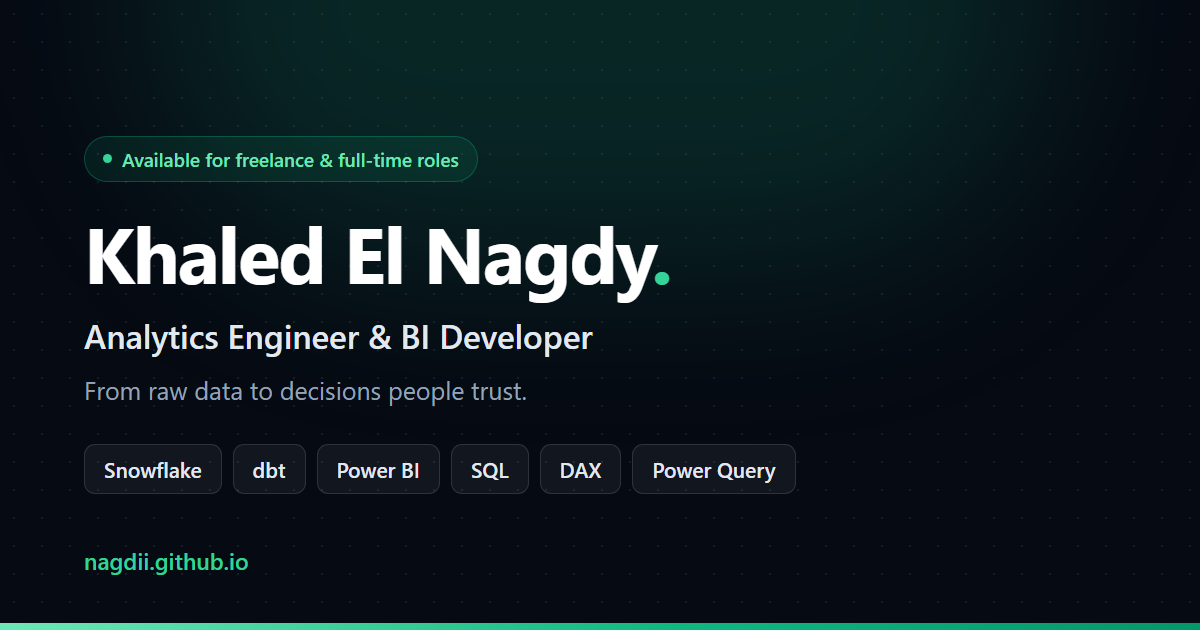
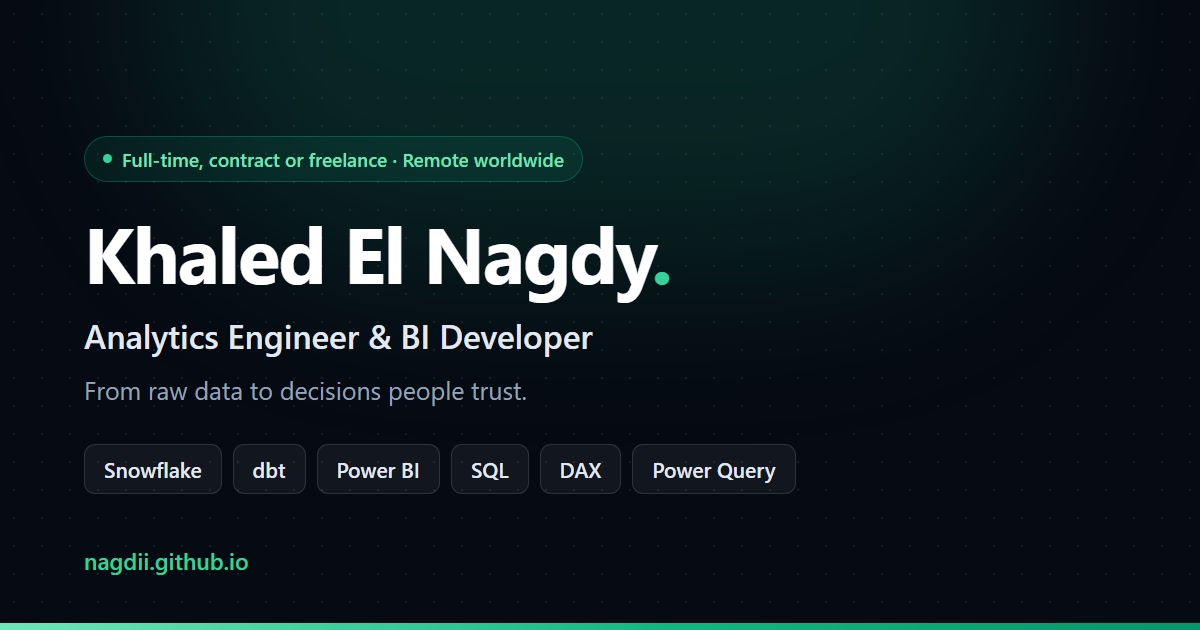
Align services lead and social card with the broader availability

Changed region(s): [[0.0925, 0.2413, 0.4933, 0.2714]]

diff --git a/scripts/og-image.html b/scripts/og-image.html
@@ -79,7 +79,7 @@
     <div class="glow"></div>
 
     <div class="content">
-      <span class="badge"><span class="dot"></span>Available for freelance &amp; full-time roles</span>
+      <span class="badge"><span class="dot"></span>Full-time, contract or freelance &middot; Remote worldwide</span>
       <h1>Khaled El Nagdy<span class="accent">.</span></h1>
       <div class="role">Analytics Engineer &amp; BI Developer</div>
       <div class="tagline">From raw data to decisions people trust.</div>

diff --git a/src/components/Services.tsx b/src/components/Services.tsx
@@ -16,7 +16,7 @@ export default function Services() {
       id="services"
       eyebrow="Services"
       title="What I can do for you"
-      lead="Available for freelance engagements and full-time roles. Same skill set either way."
+      lead="Available full-time, part-time, contract or freelance, remote worldwide or onsite with sponsorship. Same skill set either way."
       className="bg-ink-900/40"
     >
       <div className="grid gap-5 sm:grid-cols-2 lg:grid-cols-3">
